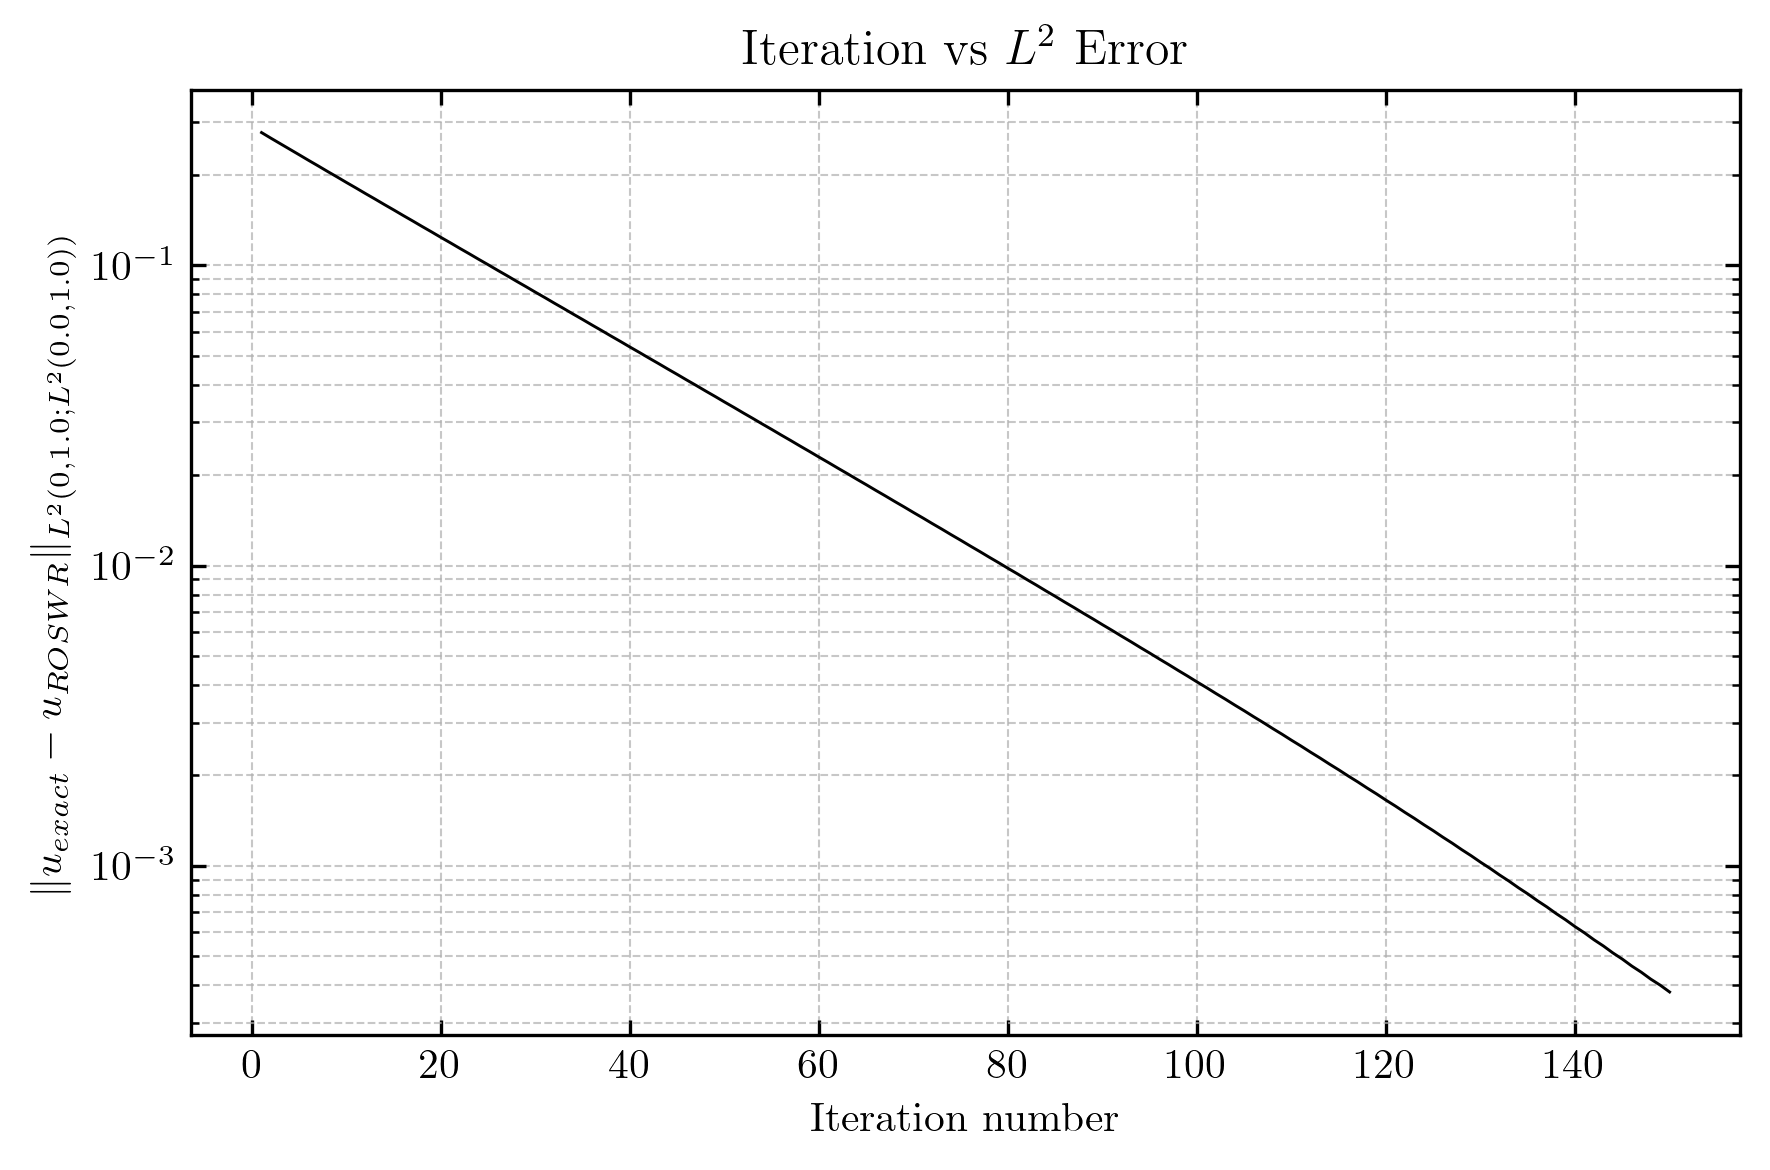
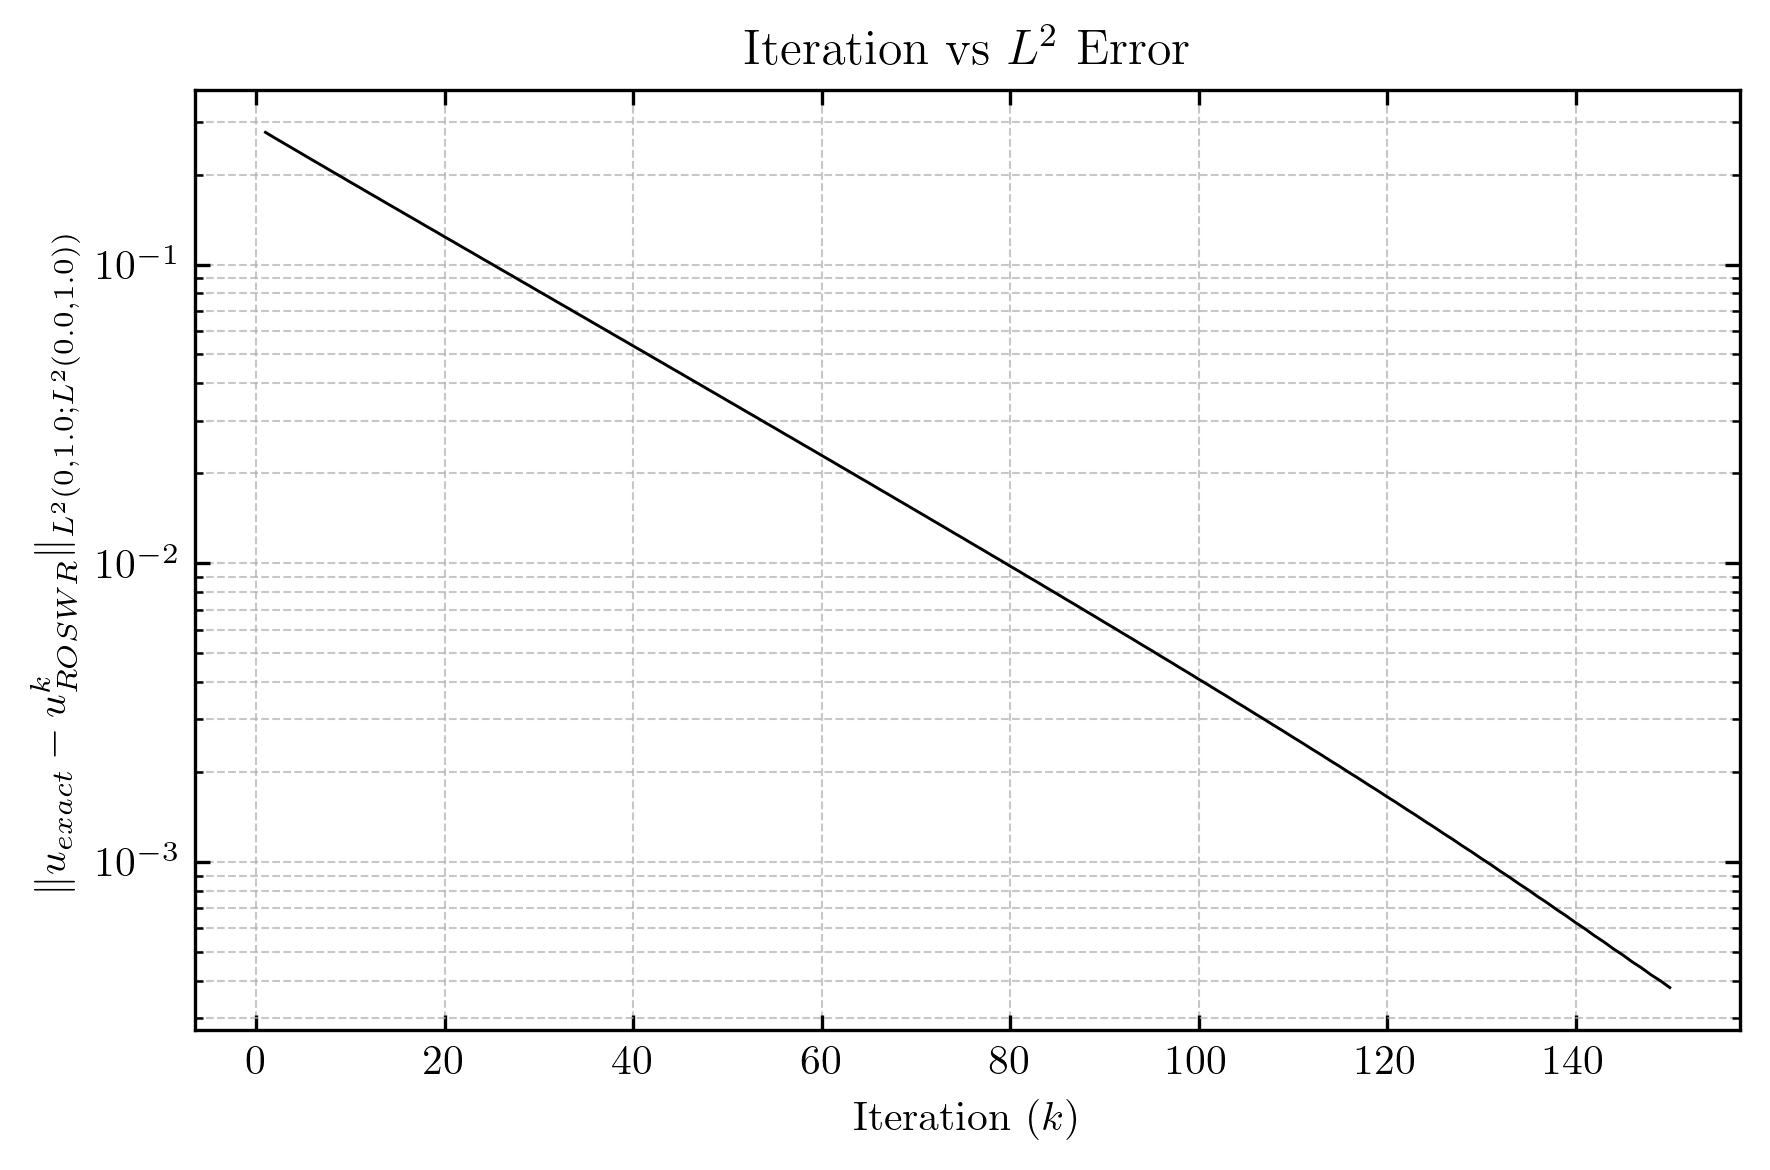
add new figure

diff --git a/experiments/1D/rowr_1D.py b/experiments/1D/rowr_1D.py
@@ -92,12 +92,36 @@ visualizer1D.plot(data = {'exactvsOSWR': error1D_oswr}, styles = styles_error, f
                     ymin = 1e-14, ymax = 1e-0, linewidth = 0.8, slabel = "ROSWR", ylabel = 'e',
                     linestyle = '-', color = 'red', title = "OSWR vs ROSWR Error Comparison")
 
+# Compute the absolute error between the exact and ROSWR solutions for different values of r (number of POD modes) and store the histories for each r value
+r_values = [5, 10, 15, 20]
+r_histories = {}
+metrics_r = [MetricSpec(MetricType.ABSOLUTE_ERROR, SpatialMode.GLOBAL, TemporalMode.STATIC)]
+config_r = HistoryConfig(metrics = metrics_r, norm = NormType.L2, exact = exact1D, mode = 'exact')
+for r in r_values:
+    pod1D = POD(heat_problem = problem1D, time_grid = tparams, lift = 'nodal', theta = 1, r = r)
+    projs1D = proj_matrices(femspace = femspace1D, roswrproblem = roswrproblem1D, pod = pod1D)
+    history1D_r, roswr_solution1D_r = roswrproblem1D.solve(projs = projs1D, time_grid = time_grid, theta = 1, lift = 'nodal', method = 'RAS', maxiter = 400, tol = 1e-14, histconfig = config_r)
+    r_histories[r] = history1D_r
+
+# Visualize the global absolute error between the exact and ROSWR solutions for different values of r across iterations and include OSWR error for comparison
+history1D_oswr, oswr_solution1D_r = oswrproblem1D.solve(time_grid = time_grid, theta = 1, lift = 'nodal', method = 'RAS', maxiter = 400, tol = 1e-14, histconfig = config_r)
+miniter = min([len(r_histories[r].values[MetricType.ABSOLUTE_ERROR]["global"]) for r in r_values] + [len(history1D_oswr.values[MetricType.ABSOLUTE_ERROR]["global"])])
+r_data = {r: r_histories[r].values[MetricType.ABSOLUTE_ERROR]["global"][:miniter] for r in r_values}
+r_data["OSWR"] = history1D_oswr.values[MetricType.ABSOLUTE_ERROR]["global"][:miniter]
+styles_r = {5: {'label': 'r=5', 'color': 'black', 'linestyle': '-', 'linewidth': 0.6},
+            10: {'label': 'r=10', 'color': 'orange', 'linestyle': '-', 'linewidth': 0.6},
+            15: {'label': 'r=15', 'color': 'green', 'linestyle': '-', 'linewidth': 0.6},
+            20: {'label': 'r=20', 'color': 'blue', 'linestyle': '-', 'linewidth': 0.6},
+            "OSWR": {'label': 'OSWR', 'color': 'red', 'linestyle': '--', 'linewidth': 0.6}}
+visualizer1D.plot_iteration(data = r_data, dpi = 300, ylabel = rf"$\| u_{{exact}} - u^{{k}} \|_{{L^2(0,{T};L^2({vert1D[0]}, {vert1D[-1]}))}}$", xlabel = r"Iteration ($k$)",
+                            save_path="figures/1D/roswr/fig1D_global_r_comparison(exact).png", styles = styles_r, title = "Global Absolute Error for Different Values of r")
+
 # Visualize the stored error between the exact and ROSWR solutions
 global_history = history1D.values[MetricType.ABSOLUTE_ERROR]["global"] # shape (niter,)
 subdomain_history = history1D.values[MetricType.CONVERGENCE_RATE]["subdomains"] # shape dictionary of shape {domainID: shape (niter, ntime)}
 styles = {1: {'label': 'Subdomain 1', 'color': 'orange', 'linestyle': '-', 'linewidth': 0.6},
           2: {'label': 'Subdomain 2', 'color': 'blue', 'linestyle': '-', 'linewidth': 0.6}}
-visualizer1D.plot_iteration(data = global_history, dpi = 300, ylabel = rf"$\| u_{{exact}} - u_{{ROSWR}} \|_{{L^2(0,{T};L^2({vert1D[0]}, {vert1D[-1]}))}}$", save_path="figures/1D/roswr/fig1D_global_rom(exact).png",
+visualizer1D.plot_iteration(data = global_history, dpi = 300, ylabel = rf"$\| u_{{exact}} - u^{{k}}_{{ROSWR}} \|_{{L^2(0,{T};L^2({vert1D[0]}, {vert1D[-1]}))}}$", xlabel = r"Iteration ($k$)", save_path="figures/1D/roswr/fig1D_global_rom(exact).png",
                             color = 'black', linestyle = '-', linewidth = 0.7)
 for i in range(len(time_indices)):
     visualizer1D.plot_iteration(data = {domainID: subdomain_history[domainID][:, i] for domainID in subdomain_history}, dpi = 300, title = r"Convergence Rate", xlabel = r"Iteration ($k$)", 